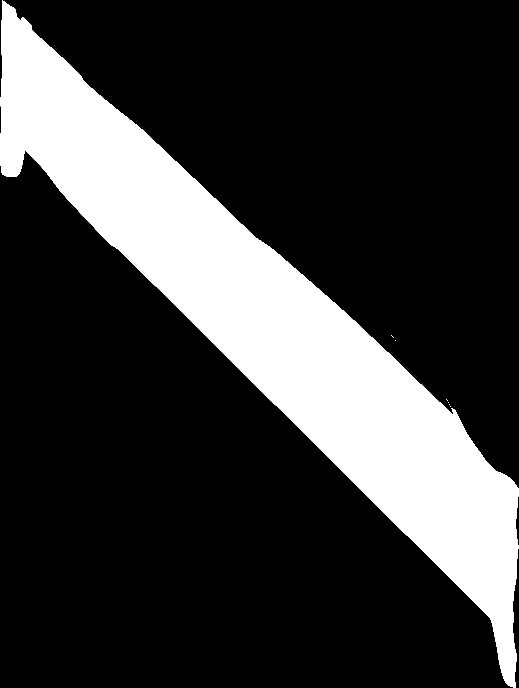
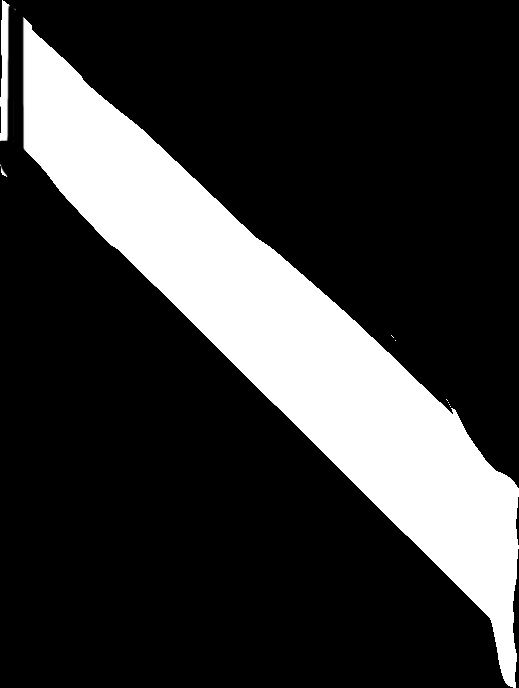
shadow improvents

Changed region(s): [[0.0, 0.0, 0.0617, 0.2747]]

diff --git a/src/components/Bed.jsx b/src/components/Bed.jsx
@@ -2,8 +2,8 @@ import React, { Component } from "react";
 import BedSvg from "./SVGs/BedSvg"
 import BedLowerSvg from "./SVGs/BedLowerSvg";
 import Moonlight from "./Moonlight";
-import betSideMask from "./bed-mask-side-bw.png"
-import betTopMask from "./bed-mask-top-bw.png"
+import bedSideMask from "./bed-mask-side-bw.png"
+import bedTopMask from "./bed-mask-top-bw.png"
 
 
 class Bed extends Component {
@@ -14,8 +14,9 @@ class Bed extends Component {
         return (
             <div className={"bed"}>
                 <div className={"player"} >{hasPlayer ? "Player" : ""}</div>
-                <Moonlight time={time} mask={betTopMask} selector={"bed-top"} />
-                <Moonlight time={time} mask={betSideMask} selector={"bed-side"} vertical={true} />
+                <Moonlight time={time} mask={bedTopMask} selector={"bed-top"} />
+                <Moonlight time={time} mask={bedSideMask} selector={"bed-side"} vertical={true} />
+                <Moonlight time={time} mask={bedSideMask} selector={"bed-side"} vertical={true} />
                 <BedSvg onClick={onClick} />
                 {/* <BedLowerSvg onClick={onClick} /> */}
             </div>

diff --git a/src/index.css b/src/index.css
@@ -191,8 +191,8 @@ html, body, .root, .App {
 .pattern.pattern-bed-top {
   -webkit-mask-size: 366px;
           mask-size: 366px;
-  -webkit-mask-position: 136px 46px;
-          mask-position: 136px 46px;
+  -webkit-mask-position: 145px 51px;
+          mask-position: 145px 51px;
 }
 
 .pattern.pattern-bed-side {
@@ -203,8 +203,9 @@ html, body, .root, .App {
 }
 
 .pattern .moonlight-bed-side {
-  top: -128px;
+  top: -146px;
   width: 408px;
+  height: 217px;
 }
 
 .pattern.pattern-room {
@@ -216,11 +217,11 @@ html, body, .root, .App {
 
 .pattern .moonlight-room {
   top: 726px;
-  left: 1231px;
-  width: 237px;
-  height: 140px;
-  -webkit-transform-origin: 0 -52px;
-          transform-origin: 0 -52px;
+  left: 1241px;
+  width: 193px;
+  height: 162px;
+  -webkit-transform-origin: 0 -135px;
+          transform-origin: 0 -135px;
 }
 
 .pattern.pattern-window {

diff --git a/src/components/Cat.jsx b/src/components/Cat.jsx
@@ -1,11 +1,13 @@
 import React, { Component } from "react";
 import cat from "./cat.svg";
 import DropDown from "./DropDown";
+import petboy from "./petboy.svg";
 
 class Cat extends Component {
   state = {
     img: cat,
-    menuOpen: false
+    menuOpen: false,
+    playerImage: petboy
   };
 
   showDropDown() {
@@ -23,6 +25,7 @@ class Cat extends Component {
         caption: "streicheln",
         action: () => {
           catInteraction("pet");
+          this.setState
         }
       },
       {
@@ -45,7 +48,7 @@ class Cat extends Component {
     };
     return (
       <div className={"cat"} style={styles}>
-        <div className={"player"} >{hasPlayer ? "Player" : ""}</div>
+        <div className={"player"} style={playerStyles}>{hasPlayer ? "Player" : ""}</div>
         <DropDown
           options={dropDownOptions}
           visible={menuOpen}

diff --git a/src/index.sass b/src/index.sass
@@ -159,22 +159,25 @@ html, body, .root, .App
 .pattern 
     &.pattern-bed-top
         mask-size: 366px
-        mask-position: 136px 46px
+        mask-position: 145px 51px
+    .moonlight-bed-top
+        // transform-origin: 
     &.pattern-bed-side
         mask-size: 275px
         mask-position: 145px 112px
     .moonlight-bed-side
-        top: -128px
+        top: -146px
         width: 408px
+        height: 217px //167px
     &.pattern-room
         mask-size: 1920px
         mask-position: 0 0
     .moonlight-room
         top: 726px
-        left: 1231px
-        width: 237px
-        height: 140px
-        transform-origin: 0 -52px
+        left: 1241px
+        width: 193px
+        height: 162px
+        transform-origin: 0 -135px
     &.pattern-window
         mask-size: 1920px
         mask-position: 0 0

diff --git a/src/components/GamingStation.jsx b/src/components/GamingStation.jsx
@@ -36,7 +36,7 @@ class GamingStation extends Component {
     return (
       <div className={"gaming-station "}>
         <div className={"player"} >{hasPlayer ? "Player" : ""}</div>
-        <Moonlight time={time} className={"moonlight-bed"} />
+        {/* <Moonlight time={time} className={"moonlight-bed"} /> */}
         <GamingStationSvg />
         <div className={screenClasses} onClick={onClick}>
           {this.state.gameNumber == 0 ? (

diff --git a/src/components/artwork-sketch.js b/src/components/artwork-sketch.js
@@ -126,8 +126,8 @@ export default function artworkSketch(s) {
 
         s.beginShape();
         var hue = ((360 / joints) * i) / 3;
-        s.stroke(hue, 80, 60, 50);
-        s.strokeWeight(0.1 * Math.pow(Math.abs(deviation), 4));
+        s.stroke(100, 80, 60, 50);
+        s.strokeWeight(1 * Math.pow(Math.abs(deviation), 4));
         for (var j = 0; j < path.length; j++) {
           // s.vertex(path[j].x, path[j].y);
         }

diff --git a/src/App.js b/src/App.js
@@ -6,7 +6,7 @@ import Intro from "./components/Intro";
 
 class App extends React.Component {
   state = {
-    current: "intro"
+    current: "room"
   }
   
 
